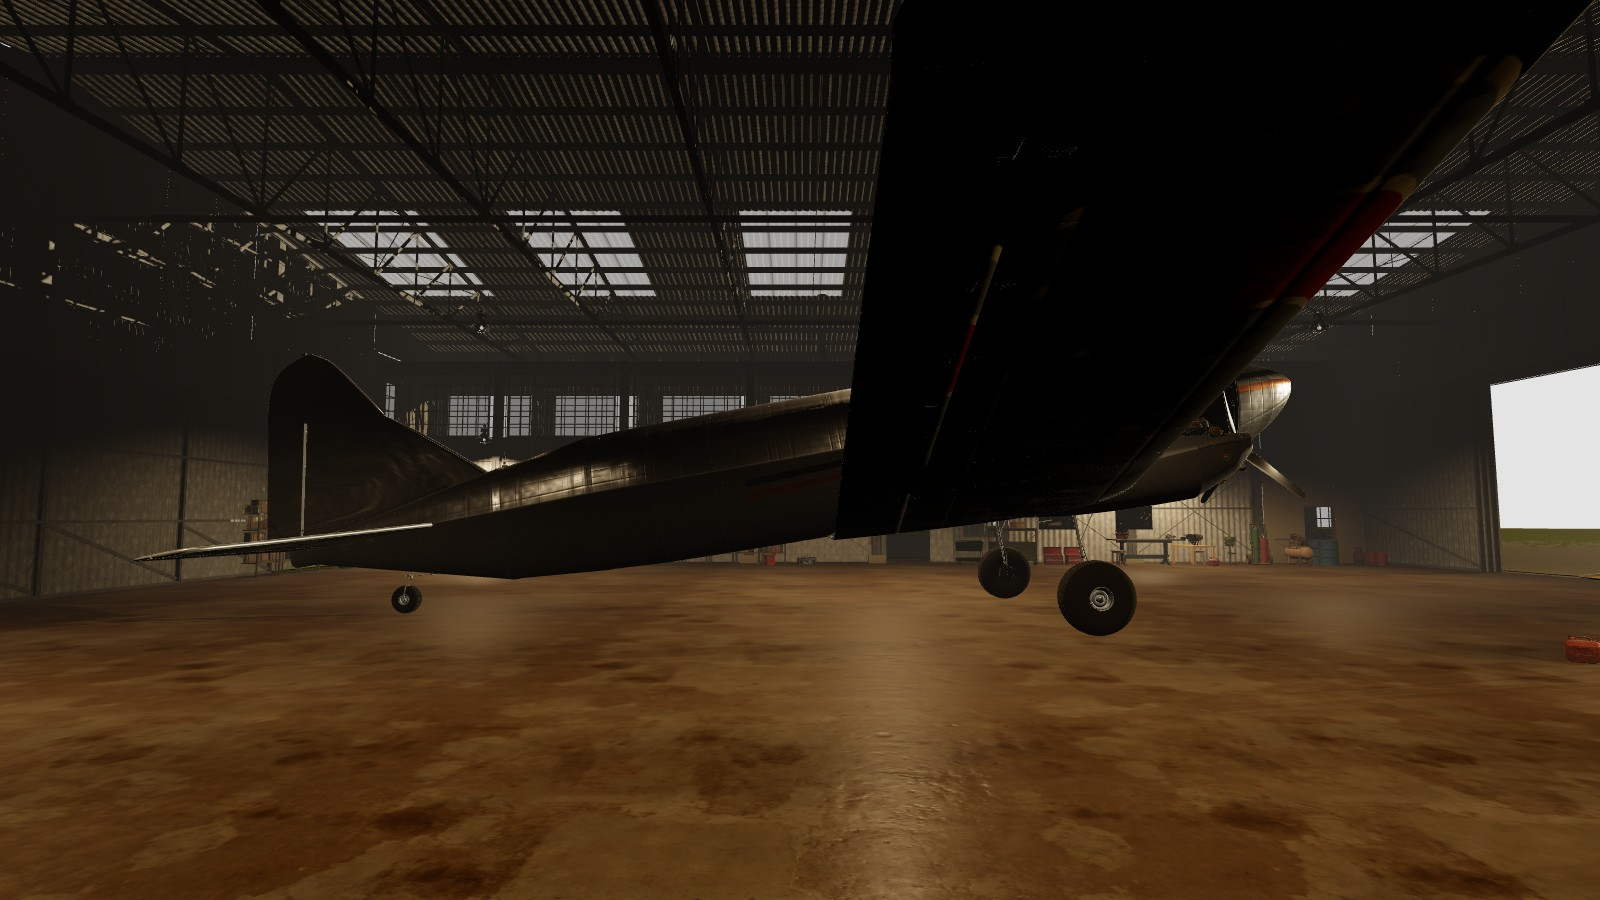
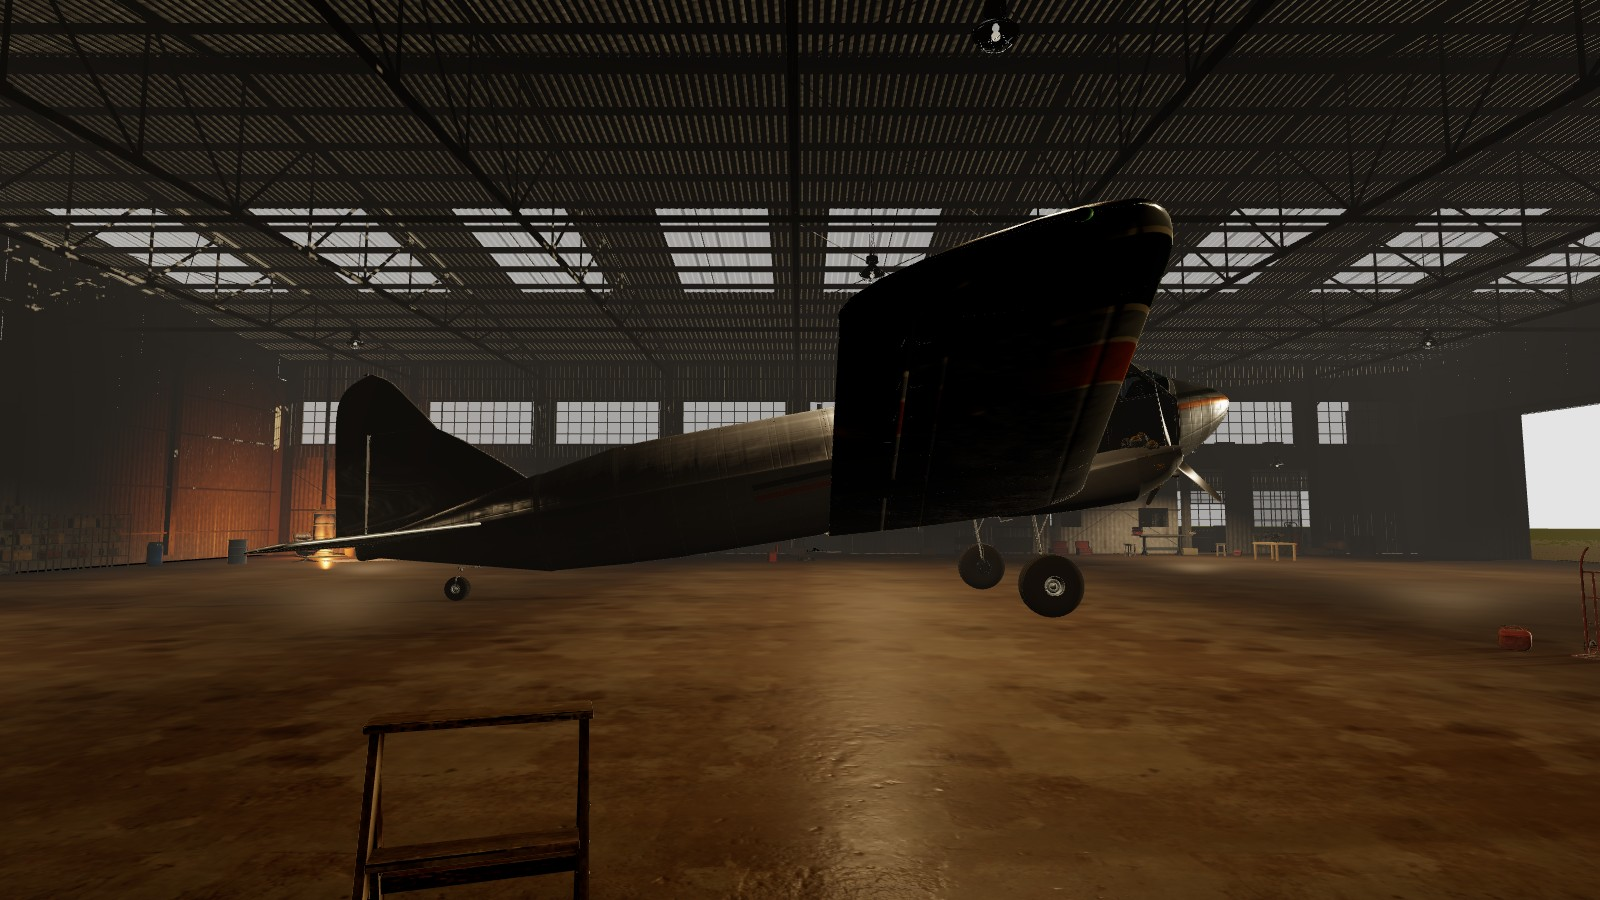
DERELICT-HANGAR: ?roomback=1 (the room's back leaves open: the A/B for the dark underside), room stills at the real size
The DC-3's polished underside still reads black with the probe's ground bounce at 0.5; the A/B with the back leaves open
tests whether the closed back took the probe's one bright patch away.

Claude-Session: https://claude.ai/code/session_01RorUqEaREi51xJc6HDqs1e

diff --git a/flyDiy/src/viewer/hangar.js b/flyDiy/src/viewer/hangar.js
@@ -2457,7 +2457,8 @@ if (DGR) {
     const F = DGR.makeFinish('room');
     const stage = Number.isFinite(+D0.stage) ? Math.max(0, Math.min(3, Math.round(+D0.stage))) : 3;   // (the story's stage; restored)
     const P = { stage, HW, HD, EAVE, floorY: 0, doorOpen: 1, apron: 0, weeds: stage < 3 ? 1 : 0, barriers: stage < 3 ? 1 : 0, aoGround: 0,
-                room: 1, offices: 1, lamps: 1, gallery: gal.lean, galleryL: gal.left, pierR: gal.right };
+                room: 1, offices: 1, lamps: 1, backOpen: (() => { try { return typeof location !== 'undefined' && /[?&]roomback=1/.test(location.search || '') ? 1 : 0; } catch (e) { return 0; } })(),   // (?roomback=1: the back leaves open - the A/B for the probe's light)
+                gallery: gal.lean, galleryL: gal.left, pierR: gal.right };
     DGR.applyFinish(P, F);
     const b = DGR.build(P, 0, F);
     for (const k of b.BAGS) {
